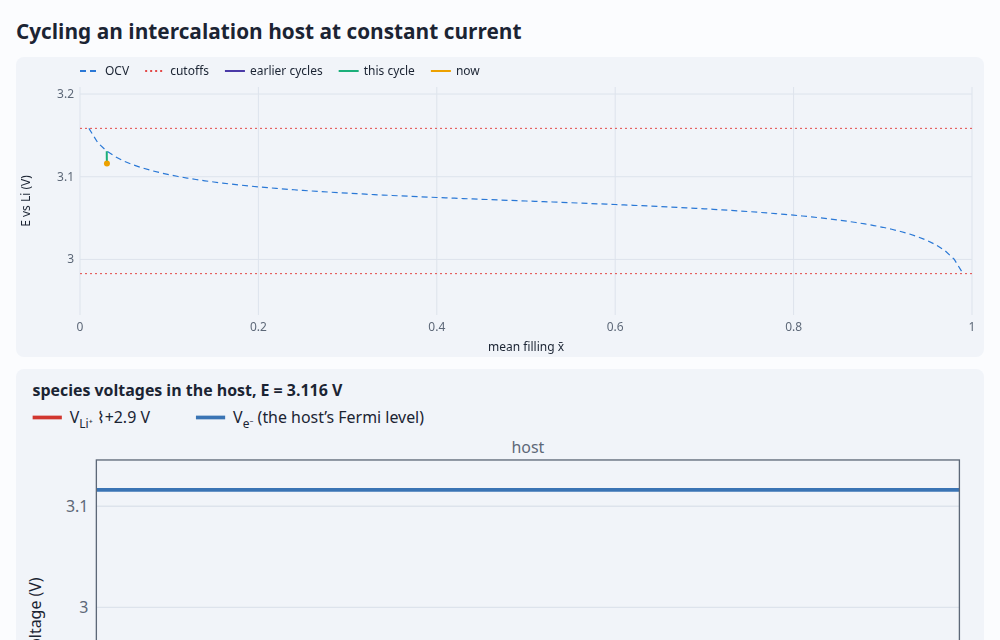
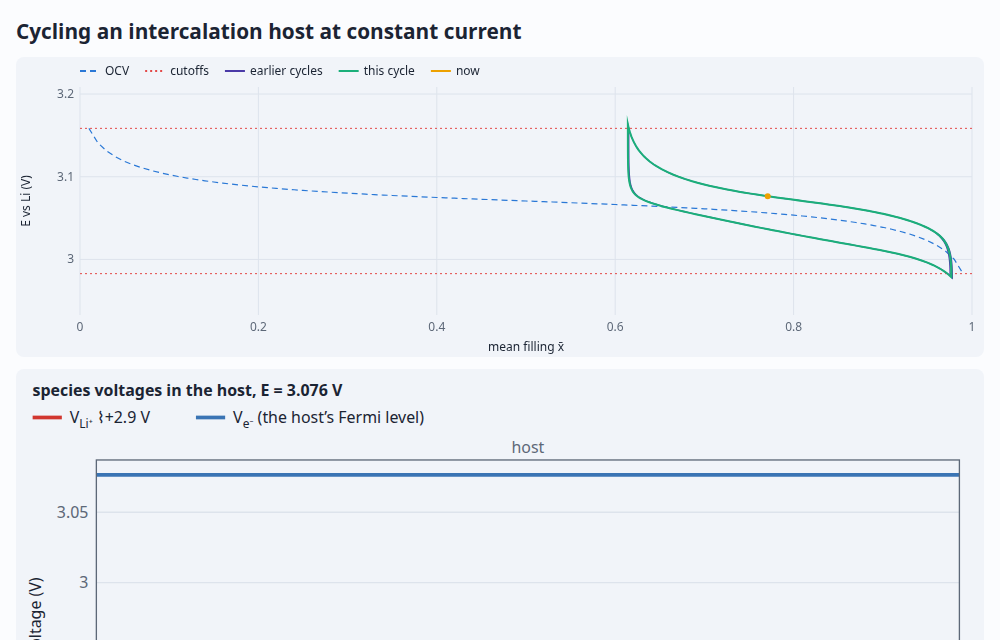
Screenshots by script: npm run shots, each demo held at a set state on virtual time
The insertion demo's ?t now runs to that time and stops there, and the impedance demo takes
?phase to hold its cycle, so every page is caught at the same moment each run (the others
already were: eight of ten retake byte-identical). The insertion shot now shows a settling
loop rather than the first instant. The static server and Chrome lookup are shared with the
smoke test.

diff --git a/tools/shots.js b/tools/shots.js
@@ -1,0 +1,46 @@
+// The demos' screenshots (the gallery's thumbnails and the README's), retaken: each page with
+// ?shot (title and figures only) and the state it's shown in, in headless Chrome on virtual
+// time, so an animation is caught at the same moment every run.
+//
+//   npm run shots [-- pages…]       (into demos/screenshots/; CHROME=/path/to/chrome)
+
+import { execFile } from 'node:child_process';
+import { promisify } from 'node:util';
+import { mkdtemp, rm } from 'node:fs/promises';
+import { tmpdir } from 'node:os';
+import { join } from 'node:path';
+import { findChrome, root, serve } from './serve.js';
+
+// Each page's query (its state: a time to stop at, a slider) and how long it runs, virtually.
+const SHOTS = {
+  pn: { query: '', budget: 60000 },
+  solar: { query: '', budget: 60000 },
+  mos: { query: '', budget: 60000 },
+  redox: { query: 't=15', budget: 60000 },
+  daniell: { query: 't=3600', budget: 60000 },
+  saturation: { query: 't=0.53', budget: 60000 },
+  impedance: { query: 'f=1.25&phase=15', budget: 60000 },
+  membrane: { query: '', budget: 60000 },
+  'double-layer': { query: '', budget: 60000 },
+  insertion: { query: 't=6000', budget: 60000 },
+};
+
+const args = process.argv.slice(2);
+const names = args.length > 0 ? args.map((a) => a.replace(/\.html$/, '')) : Object.keys(SHOTS);
+for (const n of names) if (!SHOTS[n]) throw new Error(`no screenshot settings for '${n}' (known: ${Object.keys(SHOTS).join(', ')})`);
+const server = await serve();
+const base = `http://127.0.0.1:${server.address().port}`;
+const chrome = findChrome();
+try {
+  for (const n of names) {
+    const { query, budget } = SHOTS[n];
+    const profile = await mkdtemp(join(tmpdir(), 'driftlet-shot-'));
+    const out = join(root, 'demos', 'screenshots', `${n}.png`);
+    await promisify(execFile)(chrome, ['--headless', '--disable-gpu', '--hide-scrollbars', `--user-data-dir=${profile}`, `--virtual-time-budget=${budget}`,
+      `--screenshot=${out}`, '--window-size=1000,640', `${base}/demos/${n}.html?${query ? `${query}&` : ''}shot`], { timeout: 300000 });
+    await rm(profile, { recursive: true, force: true });
+    console.log(`demos/screenshots/${n}.png`);
+  }
+} finally {
+  server.close();
+}

diff --git a/tools/smoke.js b/tools/smoke.js
@@ -7,41 +7,14 @@
 //   npm run smoke [-- pages…]       (CHROME=/path/to/chrome to choose the browser)
 
 import { spawn } from 'node:child_process';
-import { createServer } from 'node:http';
-import { readFile, readdir, mkdtemp, rm } from 'node:fs/promises';
-import { existsSync } from 'node:fs';
+import { readdir, mkdtemp, rm } from 'node:fs/promises';
 import { tmpdir } from 'node:os';
-import { join, extname, resolve, dirname } from 'node:path';
-import { fileURLToPath } from 'node:url';
+import { join } from 'node:path';
+import { findChrome, root, serve } from './serve.js';
 
-const root = resolve(dirname(fileURLToPath(import.meta.url)), '..');
 const settle = 2500; // ms a page runs after loading, and after each control is moved
-const types = { '.html': 'text/html', '.js': 'text/javascript', '.css': 'text/css', '.svg': 'image/svg+xml', '.png': 'image/png', '.json': 'application/json' };
 
 const sleep = (ms) => new Promise((r) => setTimeout(r, ms));
-
-function findChrome() {
-  const candidates = [process.env.CHROME, '/usr/bin/google-chrome', '/usr/bin/google-chrome-stable', '/usr/bin/chromium', '/usr/bin/chromium-browser',
-    '/Applications/Google Chrome.app/Contents/MacOS/Google Chrome'];
-  const found = candidates.find((p) => p && existsSync(p));
-  if (!found) throw new Error('no Chrome found; set CHROME=/path/to/chrome');
-  return found;
-}
-
-// The repo, served over HTTP (module scripts don't load from file://).
-function serve() {
-  const server = createServer(async (req, res) => {
-    const path = join(root, decodeURIComponent(new URL(req.url, 'http://x').pathname));
-    if (!path.startsWith(root)) return res.writeHead(403).end();
-    try {
-      const body = await readFile(path);
-      res.writeHead(200, { 'content-type': types[extname(path)] ?? 'application/octet-stream' }).end(body);
-    } catch {
-      res.writeHead(404).end();
-    }
-  });
-  return new Promise((ok) => server.listen(0, '127.0.0.1', () => ok(server)));
-}
 
 // Chrome with a debugging port; resolves to its browser-wide WebSocket URL.
 async function launch(profile) {

diff --git a/tools/serve.js b/tools/serve.js
@@ -1,0 +1,35 @@
+// Shared by the browser tools: the repo over HTTP (module scripts don't load from file://), and
+// a Chrome to point at it.
+
+import { createServer } from 'node:http';
+import { readFile } from 'node:fs/promises';
+import { existsSync } from 'node:fs';
+import { join, extname, resolve, dirname } from 'node:path';
+import { fileURLToPath } from 'node:url';
+
+export const root = resolve(dirname(fileURLToPath(import.meta.url)), '..');
+const types = { '.html': 'text/html', '.js': 'text/javascript', '.css': 'text/css', '.svg': 'image/svg+xml', '.png': 'image/png', '.json': 'application/json' };
+
+export function findChrome() {
+  const candidates = [process.env.CHROME, '/usr/bin/google-chrome', '/usr/bin/google-chrome-stable', '/usr/bin/chromium', '/usr/bin/chromium-browser',
+    '/Applications/Google Chrome.app/Contents/MacOS/Google Chrome'];
+  const found = candidates.find((p) => p && existsSync(p));
+  if (!found) throw new Error('no Chrome found; set CHROME=/path/to/chrome');
+  return found;
+}
+
+// The repo on a free local port; resolves to the server.
+export function serve() {
+  const server = createServer(async (req, res) => {
+    const path = join(root, decodeURIComponent(new URL(req.url, 'http://x').pathname));
+    if (!path.startsWith(root)) return res.writeHead(403).end();
+    try {
+      const body = await readFile(path);
+      res.writeHead(200, { 'content-type': types[extname(path)] ?? 'application/octet-stream' }).end(body);
+    } catch {
+      res.writeHead(404).end();
+    }
+  });
+  return new Promise((ok) => server.listen(0, '127.0.0.1', () => ok(server)));
+}
+

diff --git a/demos/insertion.html b/demos/insertion.html
@@ -75,7 +75,7 @@ labels();
 // OCV against Li metal (μ_Li = 0), dilute-referenced regular solution: see docs/statistics.md.
 const E = (x, Om) => -(mu0 + RT * Math.log(x / (1 - x)) - 2 * Om * x) / FARADAY;
 
-let dev, run, running = false;
+let dev, run, running = false, held = true; // held: the first start honours ?t
 function start() {
   const Om = +omega.value * RT, I = (C() * Q) / 3600;
   dev = new Device(
@@ -105,9 +105,16 @@ function start() {
   // The cutoffs: the OCV at 1% and 99% full.
   run = { I, sign: -1, cutoffs: [E(0.99, Om), E(0.01, Om)], ocv: [], x: [], V: [], q: x0 * Q, turns: [0], halves: 0, range: [Infinity, -Infinity] };
   for (let k = 1; k < 100; k++) run.ocv.push([k / 100, E(k / 100, Om)]);
-  // ?t=… runs ahead to that time first (for sharing a state, or a screenshot).
-  const ahead = +new URLSearchParams(location.search).get('t');
-  while (ahead > dev.solver.time && slice(ahead - dev.solver.time, Infinity).converged);
+  // ?t=… runs to that time and stops there (for sharing a state, or a screenshot); restart
+  // plays on from the start.
+  const ahead = held ? +new URLSearchParams(location.search).get('t') : 0;
+  held = false;
+  if (ahead > 0) {
+    let s;
+    while (ahead > dev.solver.time && (s = slice(ahead - dev.solver.time, Infinity)).converged);
+    if (s) draw(s);
+    return;
+  }
   lastFrame = undefined;
   if (!running) requestAnimationFrame(frame);
   running = true;

diff --git a/demos/impedance.html b/demos/impedance.html
@@ -202,7 +202,13 @@ function frame(now = performance.now()) {
     `Z = ${ohmCm2(z.re).toFixed(2)} − ${ohmCm2(-z.im).toFixed(2)}i Ω·cm² · the current leads by ${phase.toFixed(1)}° · one cycle is ${1 / f < 1 ? `${short(1000 / f)} ms` : `${short(1 / f)} s`}`;
 }
 fIn.addEventListener('input', solveAt);
-zoom.checked = new URLSearchParams(location.search).has('zoom');
+const query = new URLSearchParams(location.search);
+zoom.checked = query.has('zoom');
+// ?phase=… (degrees) holds the cycle there, paused (for sharing a state, or a screenshot).
+if (query.has('phase')) {
+  theta = (+query.get('phase') * Math.PI) / 180;
+  pace.value = '0';
+}
 solveAt();
 requestAnimationFrame(frame);
 showCode();

diff --git a/ROADMAP.md b/ROADMAP.md
@@ -67,6 +67,8 @@ for live demos.
 - A real-browser smoke test of the demos in CI (`npm run smoke`): headless Chrome over the
   DevTools protocol, every control moved to its extremes, failing on any exception, console
   error, failed request or NaN drawn.
+- Screenshots retaken by script (`npm run shots`): each demo held at a set state (`?t=…`,
+  `?phase=…`) on virtual time, so an unchanged page comes out byte-identical.
 
 ## Next
 
@@ -168,9 +170,8 @@ for live demos.
 - **More statistics.** Gaussian and exponential densities of states (disordered and organic
   semiconductors), species occupying several lattice sites, several models on one species
   (e.g. crowding plus activity coefficients), and cross-model shared sites.
-- **Demo extras.** A tiny optional plotting entry point (`driftlet/plot`), a deterministic mode
-  for screenshots, and concentration/flux sampling to drive particle animations consistently
-  with the model.
+- **Demo extras.** Concentration/flux sampling to drive particle animations consistently with
+  the model.
 - **Phase separation (Cahn–Hilliard).** A non-convex free energy (e.g. LFP's miscibility gap)
   makes $`c(\zeta)`$ multivalued. It needs c as an extra unknown plus a gradient-energy term, which is
   still local and block-tridiagonal.

diff --git a/AGENTS.md b/AGENTS.md
@@ -15,7 +15,8 @@ Guide for coding agents working in this repo.
 - **Tests are the deliverable.** Every physics feature lands with an analytic validation test
   (the validation suite). Use node's built-in test runner (`node --test`), no test dependencies.
   The demos have a browser smoke test, `npm run smoke` (headless Chrome, also in CI): run it after
-  touching a demo or anything they import.
+  touching a demo or anything they import. `npm run shots` retakes the screenshots (each page at
+  a set state, on virtual time, so unchanged pages come out byte-identical).
 - **Commits:** small and logically scoped. End messages with the Co-Authored-By trailer only;
   never a `Claude-Session:` line (a local commit-msg hook strips it as a backstop). Commit and
   push freely. Releases: add a CHANGELOG.md entry, bump `version` in package.json (and the CDN

diff --git a/README.md b/README.md
@@ -291,6 +291,7 @@ npm test         # the validation suite
 npm run bench    # typical workloads against bench/baseline.json (--save to update it)
 npm run types    # TypeScript declarations from the JSDoc, into types/ (fetches TypeScript via npx)
 npm run smoke    # every demo in headless Chrome, every control to its extremes (CHROME=… to choose)
+npm run shots    # retake the demos' screenshots, each caught at a set state (tools/shots.js)
 ```
 
 Design notes and plans: [numerics](docs/numerics.md), [conventions](docs/conventions.md),
